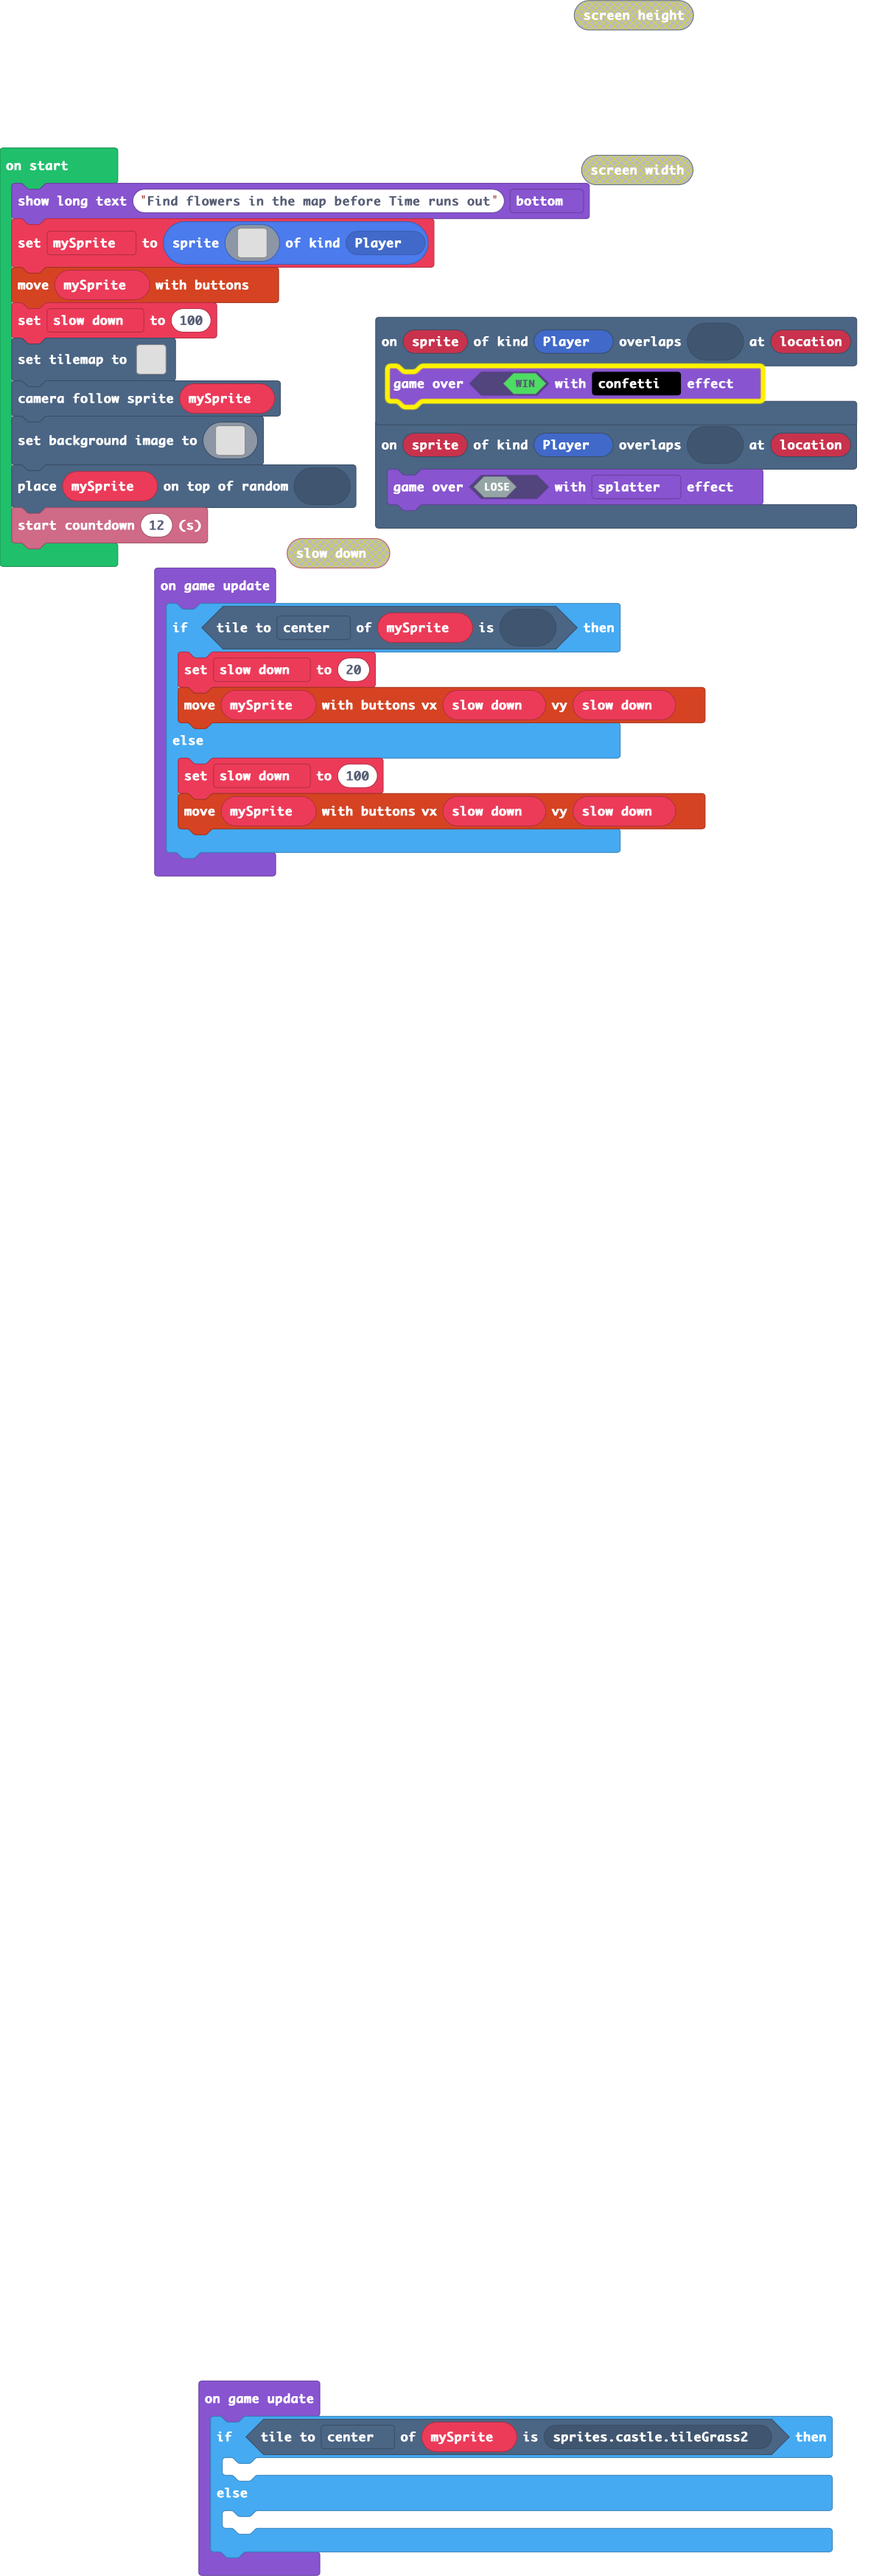
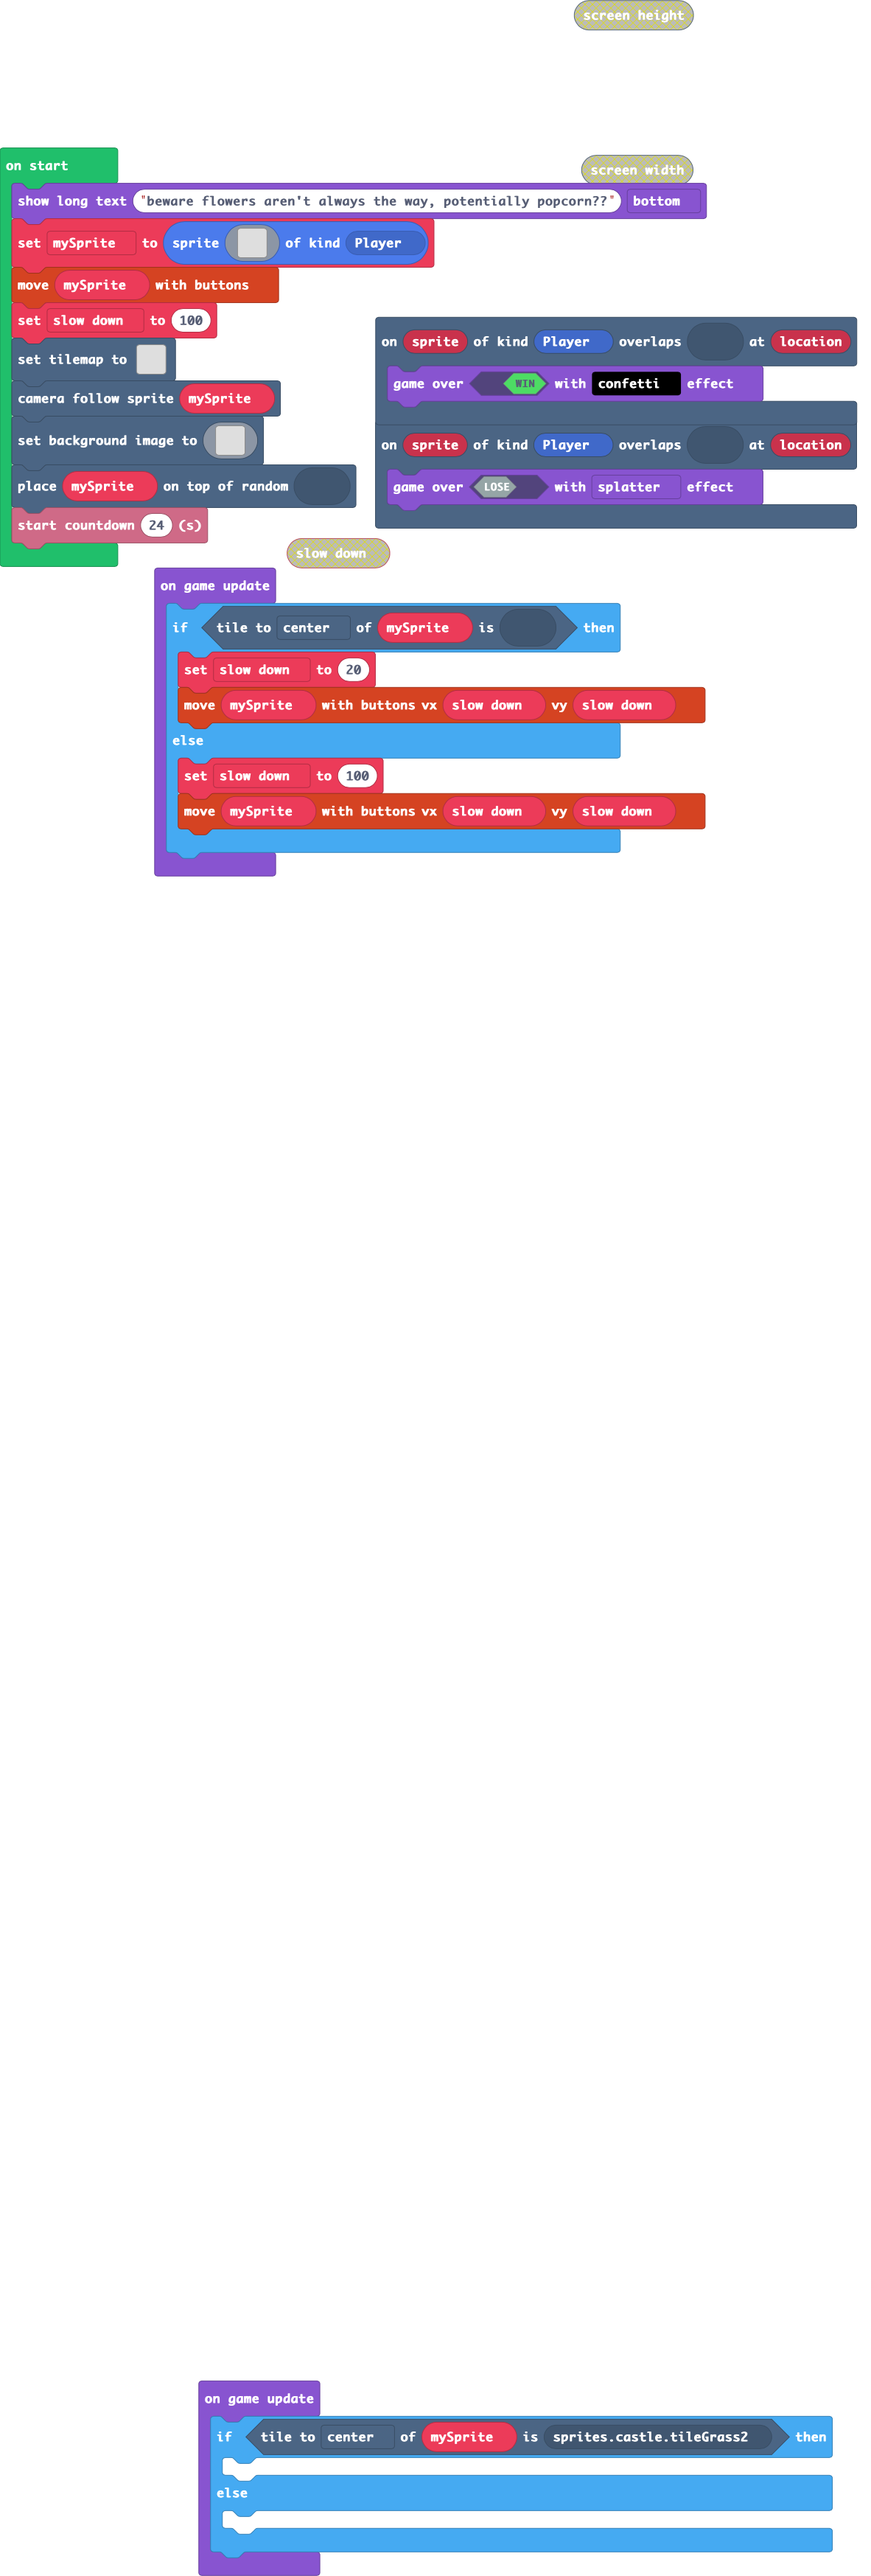
final changes to game

Changed region(s): [[0.4873, 0.1248, 0.8832, 0.156], [0.5787, 0.0624, 0.8223, 0.0936], [0.4264, 0.1248, 0.4569, 0.156]]

diff --git a/tilemap.g.ts b/tilemap.g.ts
@@ -27,7 +27,7 @@ namespace myTiles {
 . . . . . . . . . . . . . . . . 
 `, [myTiles.transparency16,sprites.dungeon.hazardLava1], TileScale.Sixteen);
             case "level1":
-            case "level1":return tiles.createTilemap(hex`1000100003030303030303030303030303030303030101010101010101010101010303030301010103050303030303030303010103010101030301010101010101010105030306010305010303030303030303030303060103050103030101030303010301010101030501010101010305050103020303030303030303030103010301030203030303030301010501030501010301010101010303010105010303010503030303030101030303030103030105030303030303010103030303030301030301010103050501050503030101010303040401010101010101010101030305050305030303030303030303030301010101010101010101010101010105010101`, img`
+            case "level1":return tiles.createTilemap(hex`1000100003030303030303030303030303030303030101010101010101010101010303030301010103050303030303030303010103010101030301010101010101010105030306010305010303030303030303030303060103050103030101030303010301010101030501010101010305050103020303030303030303030103010301030203030303030301010501030501010301010101010303010105010303010503030303030101030303030103030105030303030303010103030303030301030301010103050501050503030101010303040401010101010101010101030305050505050505050303030303030301010101010101010101010101010105010101`, img`
 . . . . . . . . . . . . . . . . 
 . 2 2 2 2 2 2 2 2 2 2 2 2 . . . 
 . 2 2 2 . . . . . . . . . . 2 2 

diff --git a/main.ts b/main.ts
@@ -4,7 +4,7 @@ scene.onOverlapTile(SpriteKind.Player, assets.tile`tile`, function (sprite, loca
 scene.onOverlapTile(SpriteKind.Player, sprites.builtin.coral2, function (sprite, location) {
     game.over(false, effects.splatter)
 })
-game.showLongText("Find flowers in the map before Time runs out", DialogLayout.Bottom)
+game.showLongText("beware flowers aren't always the way, potentially popcorn??", DialogLayout.Bottom)
 let mySprite = sprites.create(img`
     . . . . . . . . . . . . . . . . 
     . . . . . . . . . . . . . . . . 
@@ -150,7 +150,7 @@ scene.setBackgroundImage(img`
     2222222222222222222222222222222222222222222222222222222222222222222222222222222222222222222222222222222222222222222222222222222222222222222222222222222222222222
     `)
 tiles.placeOnRandomTile(mySprite, sprites.dungeon.chestClosed)
-info.startCountdown(12)
+info.startCountdown(24)
 game.onUpdate(function () {
     if (mySprite.tileKindAt(TileDirection.Center, sprites.dungeon.collectibleBlueCrystal)) {
         slow_down = 20
